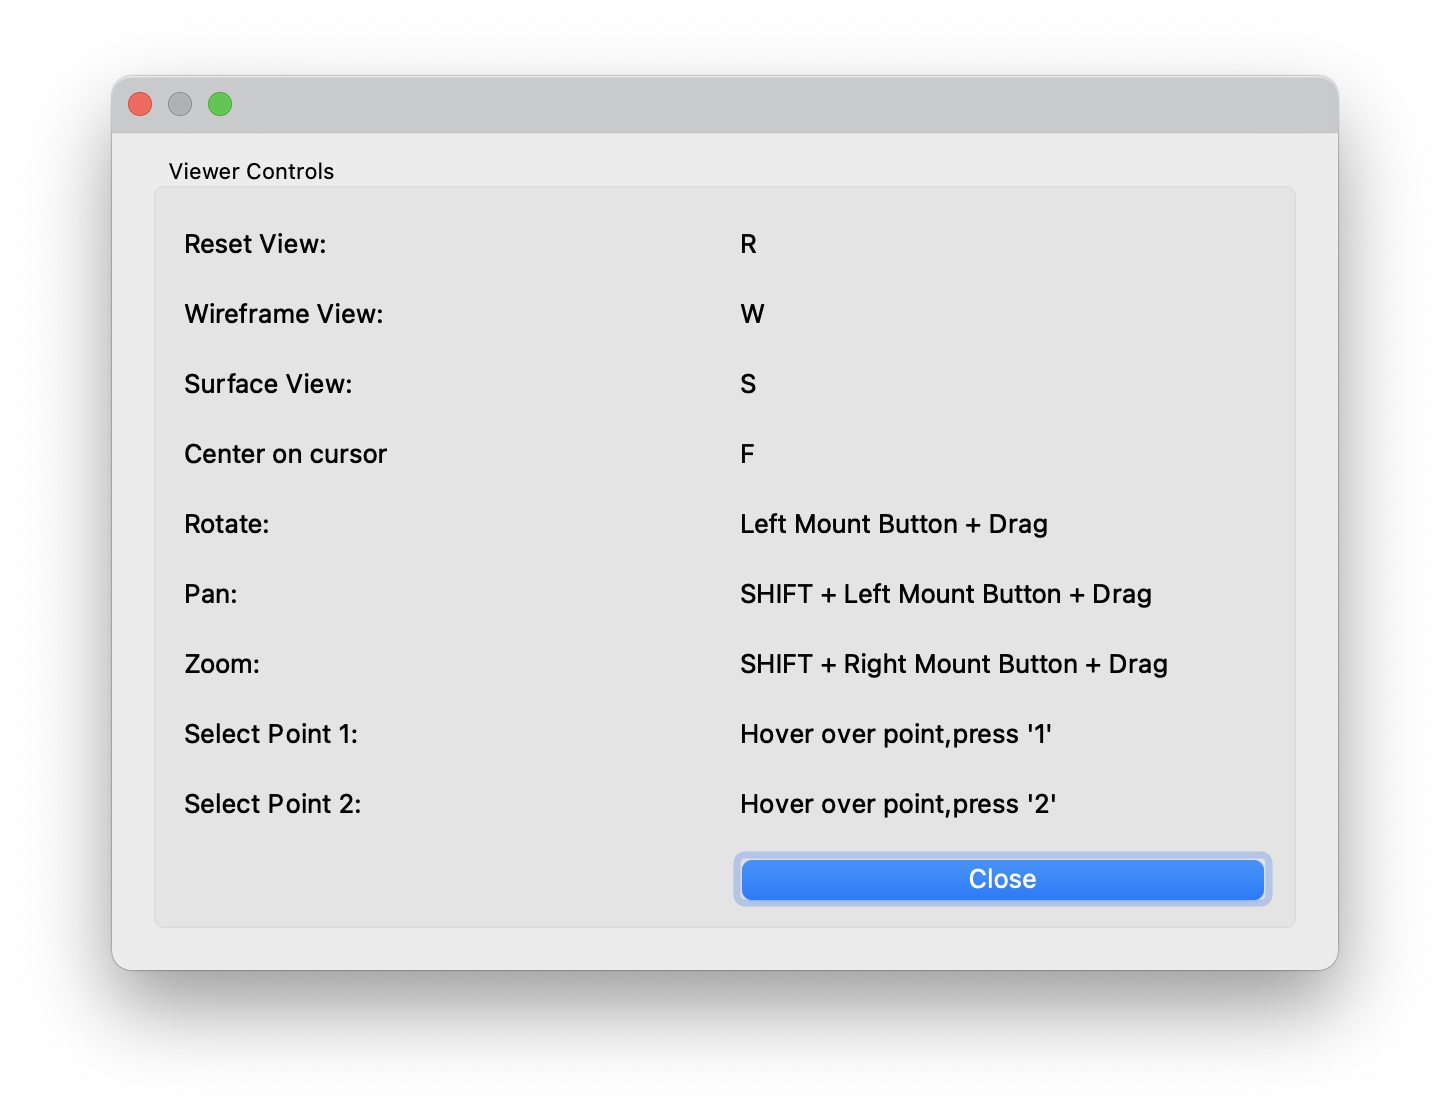
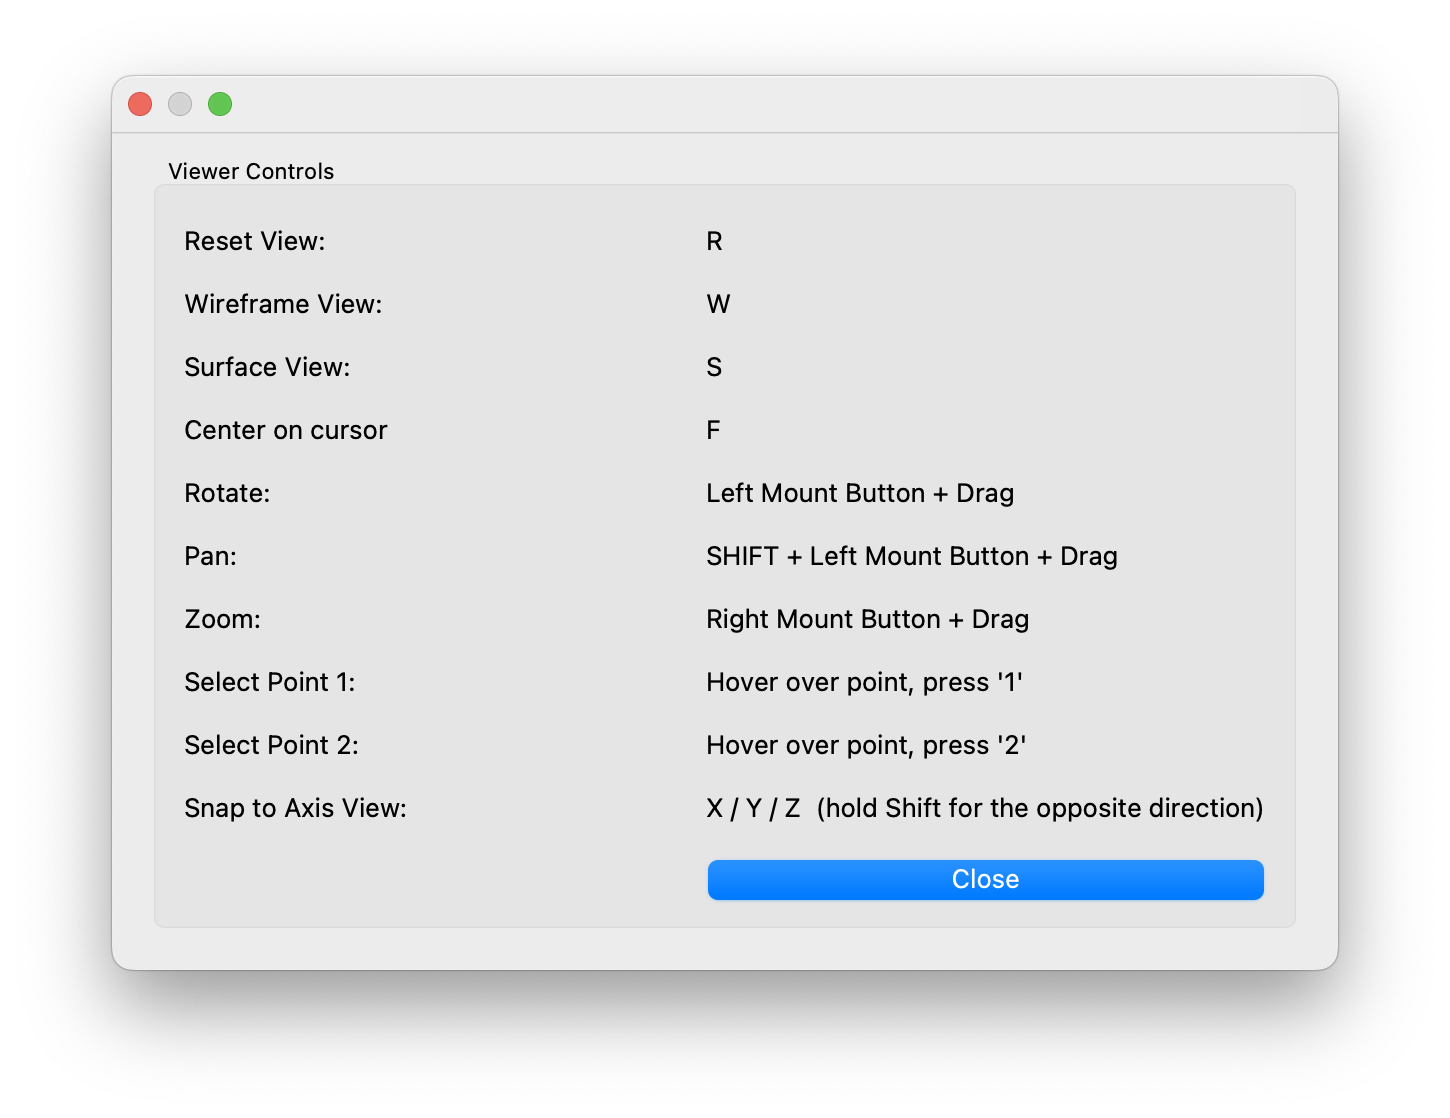
Add snap-to-axis views to Studio 3D viewer (#1953) (#2583)
Add the ability to snap the 3D camera to axis-aligned orientations.
Viewer::set_orientation sets an axis-aligned view direction and view-up
and fits it to the scene; Lightbox applies it to every viewer.

Exposed as a "Views" dropdown next to Reset View and as keyboard shortcuts
in the 3D view (lower-case = +axis, shift = -axis: x/X, y/Y, z/Z). The
dropdown item labels follow the orientation-marker preference: anatomical
names (Anterior/Posterior/Left/Right/Superior/Inferior) when the medical
cube marker is shown, and axis labels (X+/X-/Y+/Y-/Z+/Z-) for the triad
marker or when no marker is shown, refreshed each time the menu opens. Each
menu item also shows its matching keyboard shortcut, and the shortcuts are
listed in the Help -> Keyboard Shortcuts dialog.

Also fix an adjacent pre-existing bitwise | (should be ||) in the arrow-key
handler.

Pull request: Add snap-to-axis views to Studio 3D viewer (#1953)
* #1953

Add the ability to snap the 3D camera to axis-aligned orientations. Viewer::set_orientation sets an axis-aligned view direction and view-up and fits it to the scene; Lightbox applies it to every viewer.

Exposed as a "Views" dropdown next to Reset View and as keyboard shortcuts in the 3D view (lower-case = +axis, shift = -axis: x/X, y/Y, z/Z). The dropdown item labels follow the orientation-marker preference: anatomical names (Anterior/Posterior/Left/Right/Superior/Inferior) when the medical cube marker is shown, and axis labels (X+/X-/Y+/Y-/Z+/Z-) for the triad marker or when no marker is shown, refreshed each time the menu opens. Each menu item also shows its matching keyboard shortcut, and the shortcuts are listed in the Help -> Keyboard Shortcuts dialog.

Also fix an adjacent pre-existing bitwise | (should be ||) in the arrow-key handler.

diff --git a/Studio/Interface/ShapeWorksStudioApp.cpp b/Studio/Interface/ShapeWorksStudioApp.cpp
@@ -3,13 +3,16 @@
 #include <iostream>
 
 // qt
+#include <QAction>
 #include <QCloseEvent>
 #include <QFileDialog>
+#include <QMenu>
 #include <QMessageBox>
 #include <QMimeData>
 #include <QProcess>
 #include <QPushButton>
 #include <QTextStream>
+#include <QToolButton>
 #include <QWidgetAction>
 
 // vtk
@@ -66,6 +69,47 @@ ShapeWorksStudioApp::ShapeWorksStudioApp() {
   ui_ = new Ui_ShapeWorksStudioApp;
   ui_->setupUi(this);
   setAcceptDrops(true);
+
+  // populate the "Views" dropdown for snapping the 3D camera to axis-aligned orientations. The item
+  // labels follow the orientation-marker preference: anatomical names when the medical cube is shown,
+  // axis labels (X+/X-/...) for the triad marker or when no marker is shown.
+  {
+    struct ViewItem {
+      QString anatomical;
+      QString axis;
+      QString key;  // matching keyboard shortcut, shown as a hint in the menu
+      ViewOrientation orientation;
+    };
+    const std::vector<ViewItem> views = {
+        {tr("Left"), "X+", "x", ViewOrientation::Left},
+        {tr("Right"), "X-", "Shift+X", ViewOrientation::Right},
+        {tr("Posterior"), "Y+", "y", ViewOrientation::Posterior},
+        {tr("Anterior"), "Y-", "Shift+Y", ViewOrientation::Anterior},
+        {tr("Superior"), "Z+", "z", ViewOrientation::Superior},
+        {tr("Inferior"), "Z-", "Shift+Z", ViewOrientation::Inferior},
+    };
+    auto view_menu = new QMenu(ui_->view_direction_button);
+    for (const auto& view : views) {
+      ViewOrientation orientation = view.orientation;
+      connect(view_menu->addAction(view.anatomical), &QAction::triggered, this, [this, orientation]() {
+        if (lightbox_) {
+          lightbox_->set_orientation(orientation);
+        }
+      });
+    }
+    ui_->view_direction_button->setMenu(view_menu);
+    // open the menu when the button body (not just the dropdown arrow) is clicked
+    connect(ui_->view_direction_button, &QToolButton::clicked, ui_->view_direction_button, &QToolButton::showMenu);
+    // relabel the items to match the current orientation-marker preference each time the menu opens
+    connect(view_menu, &QMenu::aboutToShow, this, [this, view_menu, views]() {
+      bool anatomical = preferences_.get_orientation_marker_type() == Preferences::OrientationMarkerType::medical;
+      auto actions = view_menu->actions();
+      for (int i = 0; i < actions.size() && i < static_cast<int>(views.size()); i++) {
+        QString label = anatomical ? views[i].anatomical : views[i].axis;
+        actions[i]->setText(label + "  (" + views[i].key + ")");
+      }
+    });
+  }
 
   status_bar_ = new StatusBarWidget(this);
   connect(status_bar_, &StatusBarWidget::toggle_log_window, this, &ShapeWorksStudioApp::toggle_log_window);

diff --git a/Studio/Visualization/Viewer.cpp b/Studio/Visualization/Viewer.cpp
@@ -1,5 +1,6 @@
 // vtk
 #include <vtkArrowSource.h>
+#include <vtkCamera.h>
 #include <vtkCell.h>
 #include <vtkCellPicker.h>
 #include <vtkColorSeries.h>
@@ -888,6 +889,48 @@ void Viewer::reset_camera(std::array<double, 3> c) { renderer_->ResetCamera(); }
 //-----------------------------------------------------------------------------
 void Viewer::reset_camera() {
   slice_view_.update_camera();
+  renderer_->ResetCamera();
+  renderer_->ResetCameraClippingRange();
+  renderer_->GetRenderWindow()->Render();
+}
+
+//-----------------------------------------------------------------------------
+void Viewer::set_orientation(ViewOrientation orientation) {
+  // Direction of projection (from the camera toward the scene) and the view-up, in world axes.
+  // Anatomical labels assume the medical convention +X=Left, +Y=Posterior, +Z=Superior.
+  double dir[3] = {0, 0, 0};
+  double up[3] = {0, 0, 1};
+  switch (orientation) {
+    case ViewOrientation::Anterior:   // look from the front (-Y) toward +Y
+      dir[1] = 1;
+      break;
+    case ViewOrientation::Posterior:  // look from behind (+Y) toward -Y
+      dir[1] = -1;
+      break;
+    case ViewOrientation::Left:       // look from the left (+X) toward -X
+      dir[0] = -1;
+      break;
+    case ViewOrientation::Right:      // look from the right (-X) toward +X
+      dir[0] = 1;
+      break;
+    case ViewOrientation::Superior:   // look down from the top (+Z), anterior toward the top of the screen
+      dir[2] = -1;
+      up[1] = -1;
+      up[2] = 0;
+      break;
+    case ViewOrientation::Inferior:   // look up from below (-Z)
+      dir[2] = 1;
+      up[1] = 1;
+      up[2] = 0;
+      break;
+  }
+
+  auto camera = renderer_->GetActiveCamera();
+  camera->SetPosition(0, 0, 0);
+  camera->SetFocalPoint(dir[0], dir[1], dir[2]);
+  camera->SetViewUp(up[0], up[1], up[2]);
+  // ResetCamera keeps the direction of projection and view-up we just set, repositioning the
+  // camera to fit all visible props.
   renderer_->ResetCamera();
   renderer_->ResetCameraClippingRange();
   renderer_->GetRenderWindow()->Render();

diff --git a/Studio/Visualization/StudioInteractorStyle.cpp b/Studio/Visualization/StudioInteractorStyle.cpp
@@ -79,9 +79,29 @@ void StudioInteractorStyle::OnKeyDown() {
     case 'r':
       this->lightbox_->reset_camera();
       break;
+
+    // snap the 3D view to an axis-aligned orientation (lower-case = +axis, shift = -axis)
+    case 'x':
+      this->lightbox_->set_orientation(ViewOrientation::Left);  // X+
+      break;
+    case 'X':
+      this->lightbox_->set_orientation(ViewOrientation::Right);  // X-
+      break;
+    case 'y':
+      this->lightbox_->set_orientation(ViewOrientation::Posterior);  // Y+
+      break;
+    case 'Y':
+      this->lightbox_->set_orientation(ViewOrientation::Anterior);  // Y-
+      break;
+    case 'z':
+      this->lightbox_->set_orientation(ViewOrientation::Superior);  // Z+
+      break;
+    case 'Z':
+      this->lightbox_->set_orientation(ViewOrientation::Inferior);  // Z-
+      break;
   }
 
-  if (keysym == "Up" | keysym == "Down") {
+  if (keysym == "Up" || keysym == "Down") {
     lightbox_->handle_key(click_pos, keysym);
   }
 

diff --git a/Studio/Visualization/Lightbox.cpp b/Studio/Visualization/Lightbox.cpp
@@ -96,6 +96,14 @@ void Lightbox::reset_camera() {
 }
 
 //-----------------------------------------------------------------------------
+void Lightbox::set_orientation(ViewOrientation orientation) {
+  for (int i = 0; i < viewers_.size(); i++) {
+    viewers_[i]->set_orientation(orientation);
+  }
+  redraw();
+}
+
+//-----------------------------------------------------------------------------
 void Lightbox::reset_camera_clipping_range() {
   vtkBoundingBox bbox;
   for (int i = 0; i < viewers_.size(); i++) {

diff --git a/Studio/Visualization/Viewer.h b/Studio/Visualization/Viewer.h
@@ -53,6 +53,9 @@ class PickResult {
   int subject_ = -1;
 };
 
+//! Axis-aligned camera orientations (anatomical view directions)
+enum class ViewOrientation { Anterior, Posterior, Left, Right, Superior, Inferior };
+
 //! 3D Viewer
 /*!
  * The Viewer class encapsulates all the functionality for visualizing a single subject/shape
@@ -72,6 +75,9 @@ class Viewer {
   void clear_viewer();
   void reset_camera(std::array<double, 3> c);
   void reset_camera();
+
+  //! Snap the camera to an axis-aligned (anatomical) orientation, fitting the scene
+  void set_orientation(ViewOrientation orientation);
 
   void set_color_series(ColorMap color_series);
   void set_glyph_size_and_quality(double size, double quality);

diff --git a/Studio/Visualization/Lightbox.h b/Studio/Visualization/Lightbox.h
@@ -80,6 +80,9 @@ class Lightbox : public QObject {
 
   void reset_camera();
 
+  //! Snap every viewer's camera to an axis-aligned (anatomical) orientation
+  void set_orientation(ViewOrientation orientation);
+
   void reset_camera_clipping_range();
 
   void set_orientation_marker(Preferences::OrientationMarkerType type, Preferences::OrientationMarkerCorner corner);